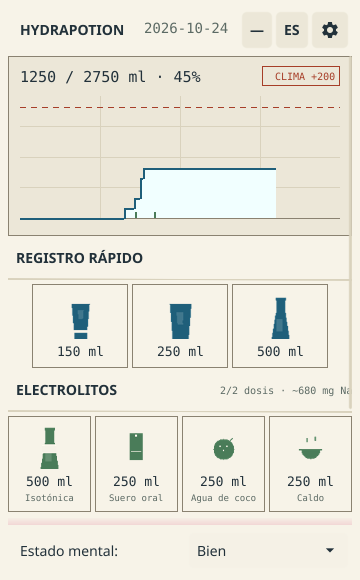
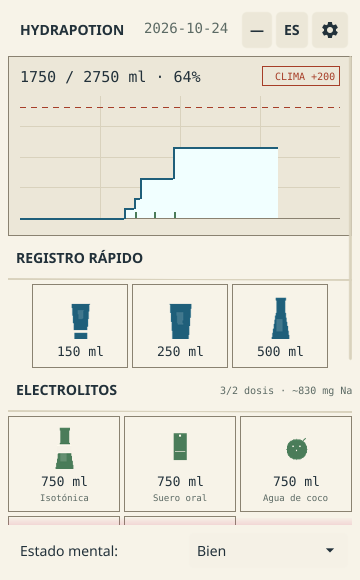
feat: pizca de sal en el agua + bebidas electrolíticas que siguen al último agua marcado (vaso/termo)
- Nueva porción 'Pizca de sal' (dos dedos): solo sodio ~150 mg Na, sin volumen (el agua ya se contó)
- Las bebidas escalan al último registro de agua del día: un vaso 250 ml o el termo del gimnasio 750 ml; las tarjetas muestran ese volumen EN VIVO y el sodio se ajusta proporcionalmente (electro.ScaleNa)
- Sin agua marcada aún, cada bebida usa su volumen por defecto; tope 2000 ml
- Grid 3+2 con salero pixel; i18n es/en/zh; tests de ScaleNa/FollowsWater

diff --git a/main.go b/main.go
@@ -106,6 +106,7 @@ var translations = map[string]map[string]string{
 	"electro_ors":      {"es": "Suero oral", "en": "ORS drink", "zh": "口服补液"},
 	"electro_coconut":  {"es": "Agua de coco", "en": "Coconut water", "zh": "椰子水"},
 	"electro_broth":    {"es": "Caldo", "en": "Broth", "zh": "清汤"},
+	"electro_salt":     {"es": "Pizca de sal", "en": "Pinch of salt", "zh": "一撮盐"},
 	"electro_status":   {"es": "%d/%d dosis · ~%d mg Na", "en": "%d/%d servings · ~%d mg Na", "zh": "%d/%d 份 · 约%d毫克钠"},
 	"csv_h_electro":    {"es": "Electrolitos (ml)", "en": "Electrolytes (ml)", "zh": "电解质（毫升）"},
 	"csv_h_na":         {"es": "Sodio est. (mg)", "en": "Est. sodium (mg)", "zh": "钠估算（毫克）"},
@@ -576,6 +577,44 @@ func (h *HydrapotionApp) ElectroTarget() int {
 	return electro.DailyTarget(h.weather.Temperature, true)
 }
 
+// LastWaterMl devuelve el volumen del último registro de agua de hoy (el
+// vaso o el termo que acabas de tomar); 0 si aún no se registró agua.
+func (h *HydrapotionApp) LastWaterMl() int {
+	h.mu.RLock()
+	defer h.mu.RUnlock()
+	today := h.todayStr()
+	for _, entry := range h.history {
+		if entry.Date != today {
+			continue
+		}
+		last := 0
+		for _, l := range entry.Logs {
+			if l.Kind != "electro" {
+				last = l.Ml
+			}
+		}
+		return last
+	}
+	return 0
+}
+
+// ResolveElectroMl — volumen que registrará una porción de electrolitos:
+// las bebidas siguen al último agua marcado (vaso 250, termo del gimnasio
+// 750...); sin registros hoy usan su volumen por defecto. Tope 2000 ml.
+func (h *HydrapotionApp) ResolveElectroMl(s electro.Serving) int {
+	if !electro.FollowsWater(s) {
+		return 0 // pizca de sal: no añade volumen
+	}
+	lw := h.LastWaterMl()
+	if lw <= 0 {
+		return s.Ml
+	}
+	if lw > 2000 {
+		lw = 2000
+	}
+	return lw
+}
+
 func searchLocation(query string) ([]GeoResult, error) {
 	encoded := url.QueryEscape(query)
 	apiURL := fmt.Sprintf("https://geocoding-api.open-meteo.com/v1/search?name=%s&count=5&language=es&format=json", encoded)
@@ -832,17 +871,41 @@ func NewWaterCard(ml int, onClick func()) *WaterCard {
 }
 
 // NewElectroCard crea la celda compacta de una porción de electrolitos.
+// Las bebidas dejan el contador vacío para que muestre EN VIVO el volumen
+// que registrarían (siguen al último agua marcado); la pizca de sal muestra
+// su sodio fijo.
 func NewElectroCard(s electro.Serving, onClick func()) *WaterCard {
 	w := &WaterCard{
-		ml:      s.Ml,
-		label:   fmt.Sprintf("%d ml", s.Ml),
 		icon:    electroIcon(s.ID, 48, 64),
 		sub:     T("electro_" + s.ID),
 		small:   true,
 		onClick: onClick,
 	}
+	if electro.FollowsWater(s) {
+		w.ml = s.Ml // contador vivo: "%d ml" con SetVolume
+	} else {
+		w.label = fmt.Sprintf("~%d mg Na", s.SodiumMg)
+	}
 	w.ExtendBaseWidget(w)
 	return w
+}
+
+// currentLabel — texto del contador según el estado de la tarjeta.
+func (c *WaterCard) currentLabel() string {
+	if c.label != "" {
+		return c.label
+	}
+	return fmt.Sprintf("%d ml", c.ml)
+}
+
+// SetVolume actualiza el volumen mostrado (tarjetas de bebida que siguen al
+// último agua registrado). Las porciones con etiqueta fija lo ignoran.
+func (c *WaterCard) SetVolume(ml int) {
+	if c.label != "" || c.ml == ml {
+		return
+	}
+	c.ml = ml
+	canvas.Refresh(c)
 }
 
 func (c *WaterCard) Tapped(*fyne.PointEvent) { c.onClick() }
@@ -870,10 +933,7 @@ func (c *WaterCard) CreateRenderer() fyne.WidgetRenderer {
 	icon.FillMode = canvas.ImageFillContain
 	icon.SetMinSize(fyne.NewSize(36, 44))
 
-	txt := c.label
-	if txt == "" {
-		txt = fmt.Sprintf("%d ml", c.ml)
-	}
+	txt := c.currentLabel()
 	ml := canvas.NewText(txt, repInk)
 	ml.Alignment = fyne.TextAlignCenter
 	ml.TextSize = 13
@@ -939,6 +999,9 @@ func (r *cardRender) Refresh() {
 		r.bg.StrokeColor = repRule
 	}
 	canvas.Refresh(r.bg)
+	// El contador es vivo (SetVolume): se relee del estado de la tarjeta.
+	r.ml.Text = r.card.currentLabel()
+	canvas.Refresh(r.ml)
 }
 
 func (r *cardRender) Objects() []fyne.CanvasObject { return []fyne.CanvasObject{r.wrapped} }
@@ -1107,7 +1170,8 @@ func drawBottle(img *image.RGBA, clr color.Color) {
 // ----------------------------------------------------------------
 
 // electroIcon dibuja el glifo de una porción de electrolitos en verde musgo:
-// botella con etiqueta (isotónica), bolsa de suero, coco con pajita, cuenco.
+// botella con etiqueta (isotónica), bolsa de suero, coco con pajita, cuenco
+// y salero (pizca de sal).
 func electroIcon(id string, w, h int) *image.RGBA {
 	img := image.NewRGBA(image.Rect(0, 0, w, h))
 	switch id {
@@ -1120,8 +1184,30 @@ func electroIcon(id string, w, h int) *image.RGBA {
 		drawCoconut(img, repMoss)
 	case "broth":
 		drawBowl(img, repMoss)
+	case "salt":
+		drawShaker(img, repMoss)
 	}
 	return img
+}
+
+// drawShaker — salero para la pizca de sal: tapa con poros y cuerpo cónico.
+func drawShaker(img *image.RGBA, clr color.Color) {
+	w, h := img.Bounds().Dx(), img.Bounds().Dy()
+	cx := w / 2
+	// cuerpo cónico (más ancho abajo)
+	topHalf, botHalf := w*7/48, w*11/48
+	y0, y1 := h*3/8, h*3/4
+	for y := y0; y < y1; y++ {
+		t := float64(y-y0) / float64(y1-y0)
+		half := int(float64(topHalf)*(1-t) + float64(botHalf)*t)
+		repHLine(img, cx-half, cx+half, y, clr)
+	}
+	// tapa
+	repFillRect(img, cx-w/6, h/4, cx+w/6, y0, clr)
+	// poros de la tapa
+	for _, px := range []int{cx - w/10, cx, cx + w/10} {
+		repFillRect(img, px-1, h/4+1, px+1, h/4+3, repPaper)
+	}
 }
 
 // drawLabelBand pinta una banda horizontal (etiqueta) sobre el cuerpo del
@@ -1560,20 +1646,37 @@ func (h *HydrapotionApp) CreateMainUI() fyne.CanvasObject {
 	chart := NewWaterChart()
 
 	// Electrolitos: mini-tarjetas por porción + estado del día en la cabecera.
-	electroCards := make([]fyne.CanvasObject, 0, len(electro.Servings))
-	for _, s := range electro.Servings {
-		electroCards = append(electroCards, NewElectroCard(s, func() {
-			h.AddElectro(s.Ml, s.SodiumMg)
-			playSound("add_water.wav")
-		}))
+	// Las bebidas muestran EN VIVO el volumen que registrarán (siguen al
+	// último agua marcado: vaso, termo...); la pizca de sal es fija.
+	type electroCell struct {
+		card *WaterCard
+		s    electro.Serving
 	}
-	electroGrid := container.NewGridWithColumns(len(electro.Servings), electroCards...)
+	cells := make([]electroCell, 0, len(electro.Servings))
+	for _, s := range electro.Servings {
+		card := NewElectroCard(s, func() {
+			vol := h.ResolveElectroMl(s)
+			h.AddElectro(vol, electro.ScaleNa(s, vol))
+			playSound("add_water.wav")
+		})
+		cells = append(cells, electroCell{card, s})
+	}
+	electroObjs := make([]fyne.CanvasObject, 0, len(cells))
+	for _, c := range cells {
+		electroObjs = append(electroObjs, c.card)
+	}
+	electroGrid := container.NewGridWithColumns(3, electroObjs...)
 
 	electroStatus := canvas.NewText("", repInkMuted)
 	electroStatus.TextStyle = fyne.TextStyle{Monospace: true}
 	electroStatus.TextSize = 10
 	electroStatus.Alignment = fyne.TextAlignTrailing
 	updateElectro := func() {
+		for _, c := range cells {
+			if electro.FollowsWater(c.s) {
+				c.card.SetVolume(h.ResolveElectroMl(c.s))
+			}
+		}
 		st := h.ElectroStats()
 		electroStatus.Text = fmt.Sprintf(T("electro_status"), st.Dosis, h.ElectroTarget(), st.Na)
 		canvas.Refresh(electroStatus)

diff --git a/internal/electro/electro_test.go b/internal/electro/electro_test.go
@@ -62,13 +62,56 @@ func TestServingsSane(t *testing.T) {
 			t.Fatalf("ID duplicado: %s", s.ID)
 		}
 		seen[s.ID] = true
-		if s.Ml <= 0 || s.Ml > 2000 {
+		if s.Ml < 0 || s.Ml > 2000 {
 			t.Fatalf("porción %s: volumen fuera de rango: %d", s.ID, s.Ml)
 		}
 		if s.SodiumMg <= 0 || s.SodiumMg > 1500 {
 			t.Fatalf("porción %s: sodio estimado fuera de rango: %d", s.ID, s.SodiumMg)
 		}
-		// Cada porción debe tener su clave i18n (la UI usa "electro_"+ID).
-		_ = s.ID
+		if s.Ml == 0 && s.ID != SaltPinchID {
+			t.Fatalf("porción %s sin volumen y no es la pizca de sal", s.ID)
+		}
+	}
+	if _, ok := FindByID(SaltPinchID); !ok {
+		t.Fatal("falta la porción pizca de sal")
+	}
+}
+
+func TestFollowsWater(t *testing.T) {
+	iso, _ := FindByID("isotonic")
+	salt, _ := FindByID(SaltPinchID)
+	if !FollowsWater(iso) {
+		t.Fatal("la isotónica debe seguir al último agua registrado")
+	}
+	if FollowsWater(salt) {
+		t.Fatal("la pizca de sal es fija, no sigue al agua")
+	}
+}
+
+func TestScaleNa(t *testing.T) {
+	iso, _ := FindByID("isotonic") // 500 ml / 250 mg Na
+	cases := []struct {
+		name string
+		ml   int
+		want int
+	}{
+		{"porción por defecto", 500, 250},
+		{"vaso 250", 250, 125},
+		{"termo 750", 750, 375},
+		{"termo 1L", 1000, 500},
+	}
+	for _, c := range cases {
+		t.Run(c.name, func(t *testing.T) {
+			if got := ScaleNa(iso, c.ml); got != c.want {
+				t.Fatalf("ScaleNa(isotonic, %d) = %d; want %d", c.ml, got, c.want)
+			}
+		})
+	}
+	salt, _ := FindByID(SaltPinchID)
+	if got := ScaleNa(salt, 0); got != 150 {
+		t.Fatalf("ScaleNa(salt, 0) = %d; want 150", got)
+	}
+	if got := ScaleNa(salt, 999); got != 150 {
+		t.Fatalf("ScaleNa(salt, 999) = %d; want 150 (fija)", got)
 	}
 }

diff --git a/internal/electro/electro.go b/internal/electro/electro.go
@@ -21,12 +21,20 @@ type Serving struct {
 //     (fórmula OMS ~75 mmol/L ≈ 1,7 g Na/L)
 //   - agua de coco 250 ml ≈ 105 mg Na (~400 mg/L; además aporta potasio)
 //   - caldo / consomé 250 ml ≈ 500 mg Na (casero ligero; enorme variabilidad)
+//   - pizca de sal (dos dedos) en el agua ya registrada ≈ 150 mg Na
+//     (~0,4 g de sal; sin volumen: el agua ya se contó como agua)
+//
+// Las bebidas (Ml > 0) escalan al último agua registrado; la pizca es fija.
 var Servings = []Serving{
 	{"isotonic", 500, 250},
 	{"ors", 250, 430},
 	{"coconut", 250, 105},
 	{"broth", 250, 500},
+	{"salt", 0, 150},
 }
+
+// SaltPinchID — identificador de la pizca de sal (única porción sin volumen).
+const SaltPinchID = "salt"
 
 // NaPerMl — concentración genérica (isotónica) para estimar el sodio de
 // volúmenes arbitrarios registrados por CLI (hydrapotion electro <ml>).
@@ -48,6 +56,19 @@ func FindByID(id string) (Serving, bool) {
 		}
 	}
 	return Serving{}, false
+}
+
+// FollowsWater — las bebidas (Ml > 0) escalan con el último agua registrado
+// (el vaso o el termo que acabas de tomar); la pizca de sal es fija.
+func FollowsWater(s Serving) bool { return s.Ml > 0 }
+
+// ScaleNa — sodio estimado de la porción al volumen real tomado. La pizca
+// de sal (y cualquier porción sin volumen) devuelve su sodio fijo.
+func ScaleNa(s Serving, ml int) int {
+	if s.Ml <= 0 || ml <= 0 {
+		return s.SodiumMg
+	}
+	return int(float64(s.SodiumMg)*float64(ml)/float64(s.Ml) + 0.5)
 }
 
 // DailyTarget — dosis de electrolitos de referencia por día:

diff --git a/README.md b/README.md
@@ -119,7 +119,7 @@ The reminder interval uses the same weather logic (see
 ## Electrolytes
 
 Electrolyte intake is tracked **separately from water** (it does not count
-toward the water goal). Four predefined servings ship with the app, each with
+toward the water goal). Five predefined servings ship with the app, each with
 an estimated sodium content based on typical concentrations:
 
 | Serving | Volume | Est. sodium |
@@ -128,6 +128,13 @@ an estimated sodium content based on typical concentrations:
 | Oral rehydration solution (WHO-style) | 250 ml | ~430 mg Na |
 | Coconut water | 250 ml | ~105 mg Na |
 | Broth | 250 ml | ~500 mg Na |
+| Pinch of salt (in water you already logged) | — | ~150 mg Na |
+
+Servings are not rigid: **drinks follow the last water you logged** — a glass
+(~250 ml), a gym thermos (~750 ml), whatever you just drank — and the cards
+show that live volume; the sodium estimate scales with it. With no water
+logged yet they fall back to their default volume. The pinch of salt adds
+only sodium (the water was already counted as water).
 
 Daily reference: **2 servings**, +1 when the configured weather reads ≥ 30 °C
 (`internal/electro`, pure and unit-tested). The header shows
